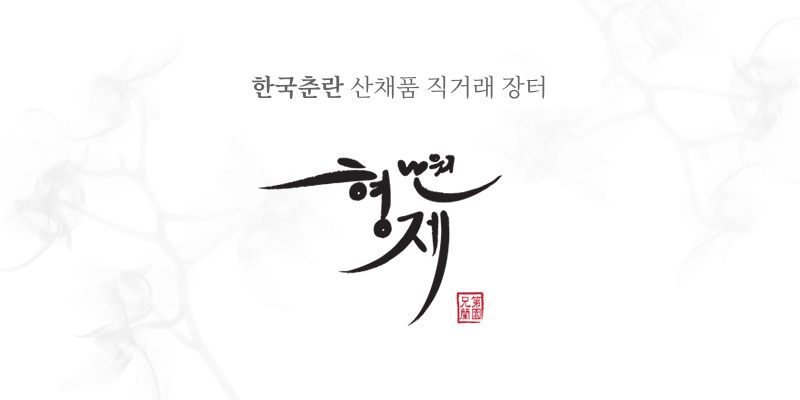
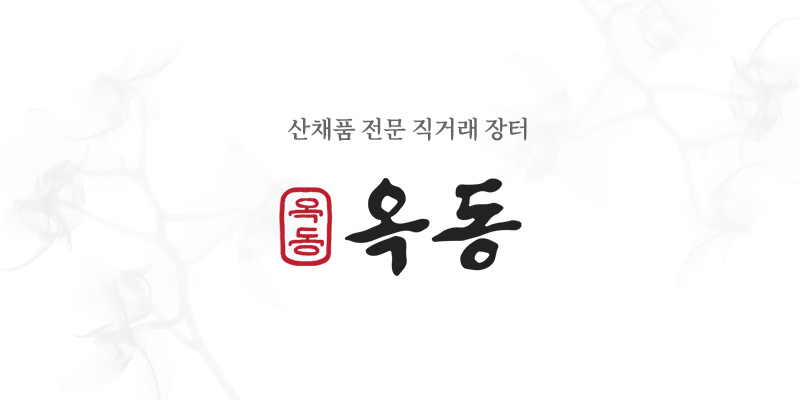
feat: 오픈 그래프 추가

diff --git a/app/(home)/layout.tsx b/app/(home)/layout.tsx
@@ -6,6 +6,7 @@ import './globals.css';
 import RecoilRootWrapper from '@/components/RecoilRootWrapper';
 import Script from 'next/script';
 import QueryClientWrapper from '@/components/QueryClientWrapper';
+import { URL } from 'url';
 
 const noto_sans_kr = Noto_Sans_KR({
   weight: ['400', '500', '700'],
@@ -13,8 +14,24 @@ const noto_sans_kr = Noto_Sans_KR({
 });
 
 export const metadata: Metadata = {
-  title: '형/제/난/원 || 한국춘란 산채품 직거래장터',
+  title: '옥동 || 한국춘란 산채품 직거래장터',
   description: '한국춘란 산채품 전문 직거래장터',
+  metadataBase: new URL('https://www.hyoungje.kr'),
+  openGraph: {
+    title: '옥동',
+    description: '한국춘란 산채품 전문 직거래장터',
+    images: '../assets/common/open_graph.jpg',
+  },
+  keywords: [
+    '형제난원',
+    '옥동',
+    '산채품',
+    '한국춘란',
+    '난',
+    '난초',
+    '산채품 직거래',
+    '난초 직거래',
+  ],
 };
 
 export default function RootLayout({
